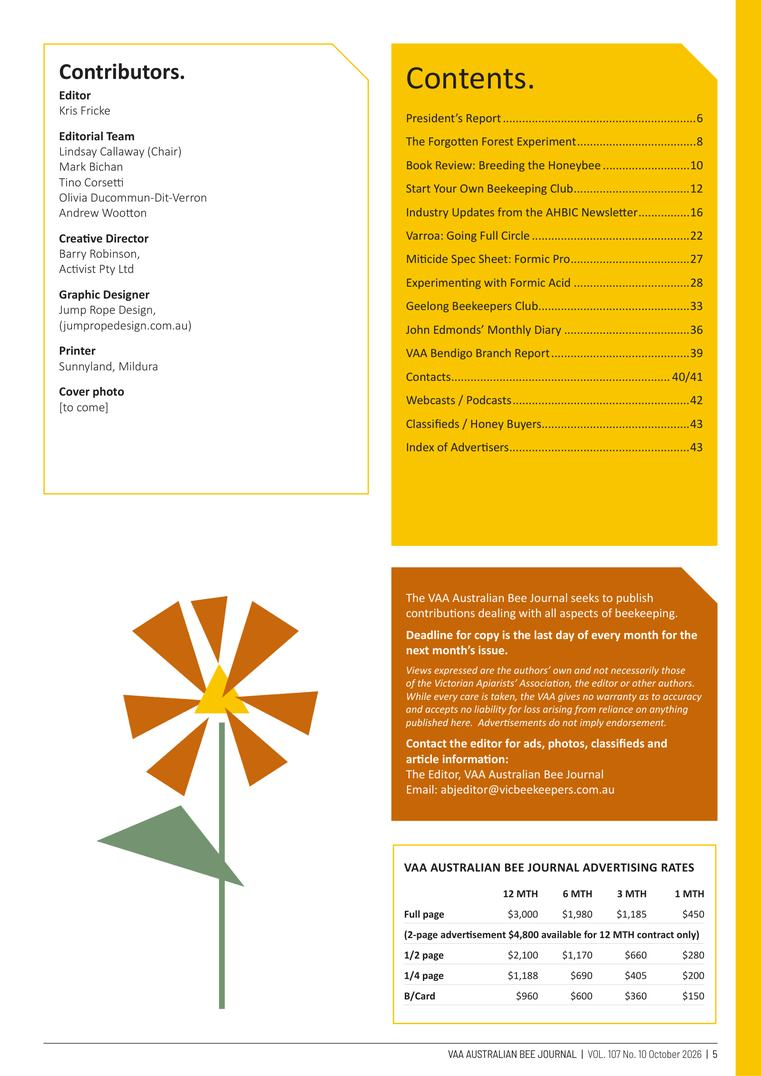
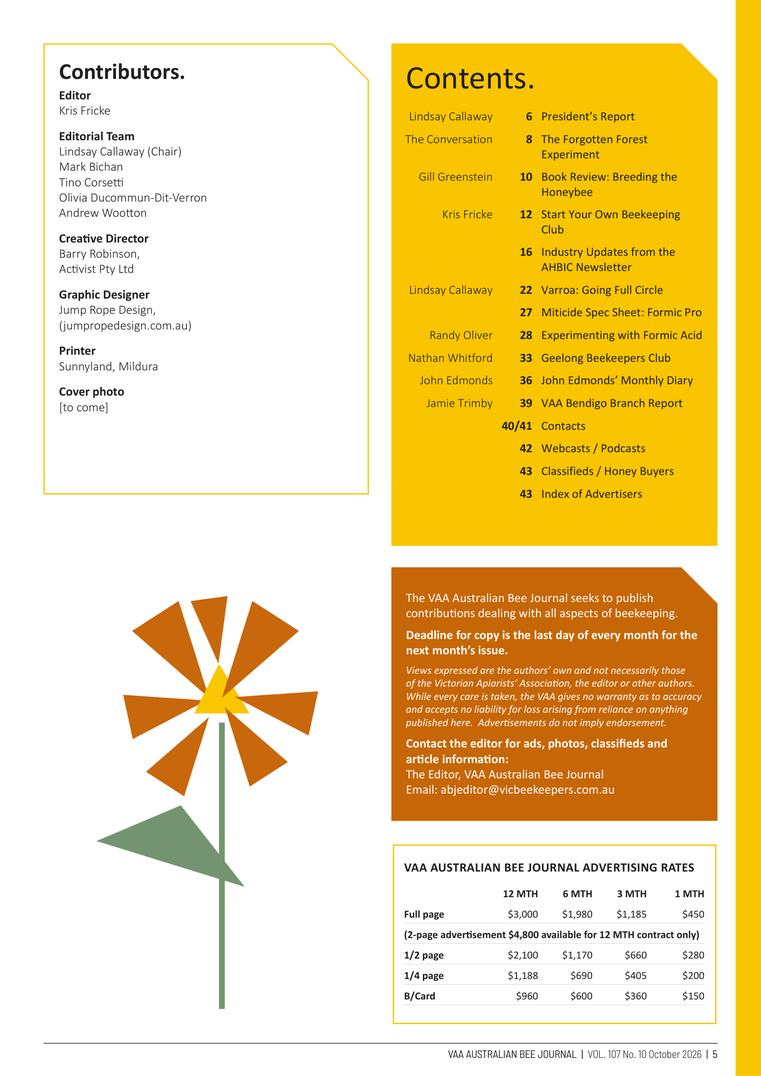
Index changes

Changed region(s): [[0.5138, 0.092, 0.9369, 0.4907]]

diff --git a/abk/html/v127n4/3.html b/abk/html/v127n4/3.html
@@ -70,36 +70,54 @@ a.hot:hover{background:rgba(255,212,0,.13);box-shadow:0 0 0 8px rgba(255,212,0,.
 <p class="gh" style="left:239.00px;top:4524.00px;font-size:89.60px" data-b="4600.65" data-w="596.50"><span class="w4">Honey and the</span></p>
 <p class="gh" style="left:238.95px;top:4658.40px;font-size:89.60px" data-b="4735.05" data-w="879.01"><span class="w4">Beekeepers' Interests</span></p>
 <p class="gh" style="left:238.91px;top:4792.80px;font-size:89.60px" data-b="4869.45" data-w="754.69"><span class="w4">for over 126 years</span></p>
-<p class="ss" style="left:1659.52px;top:1595.77px;font-size:70.40px" data-b="1656.00" data-w="37.17"><a class="ixlink" href="../../index.html#/page/v127n4/2" target="_top" title="Go to page 2"><span class="w7" style="color:#405a86">2</span></a></p>
-<p class="ss" style="left:1812.50px;top:1595.77px;font-size:70.40px;transform:scaleX(0.9984)" data-b="1656.00" data-w="351.57" data-g="0.9984"><a class="ixlink" href="../../index.html#/page/v127n4/2" target="_top" title="Go to page 2"><span class="w3">Editors Note</span></a></p>
-<p class="ss" style="left:1659.52px;top:1741.99px;font-size:70.40px" data-b="1802.22" data-w="37.17"><a class="ixlink" href="../../index.html#/page/v127n4/4" target="_top" title="Go to page 4"><span class="w7" style="color:#405a86">4</span></a></p>
-<p class="ss" style="left:1812.50px;top:1741.99px;font-size:70.40px" data-b="1802.22" data-w="1064.04"><a class="ixlink" href="../../index.html#/page/v127n4/4" target="_top" title="Go to page 4"><span class="w3">ABK News, Letters &amp; Industry Updates</span></a></p>
-<p class="ss" style="left:1659.52px;top:1888.21px;font-size:70.40px" data-b="1948.44" data-w="37.17"><a class="ixlink" href="../../index.html#/page/v127n4/8" target="_top" title="Go to page 8"><span class="w7" style="color:#405a86">8</span></a></p>
-<p class="ss" style="left:1812.50px;top:1888.21px;font-size:70.40px" data-b="1948.44" data-w="483.16"><a class="ixlink" href="../../index.html#/page/v127n4/8" target="_top" title="Go to page 8"><span class="w3">Seasonal Update</span></a></p>
-<p class="ss" style="left:1659.52px;top:2034.43px;font-size:70.40px" data-b="2094.66" data-w="74.34"><a class="ixlink" href="../../index.html#/page/v127n4/10" target="_top" title="Go to page 10"><span class="w7" style="color:#405a86">10</span></a></p>
-<p class="ss" style="left:1812.50px;top:2034.43px;font-size:70.40px" data-b="2094.66" data-w="1098.73"><a class="ixlink" href="../../index.html#/page/v127n4/10" target="_top" title="Go to page 10"><span class="w3">An In-Depth Look at Juvenile Hormone</span></a></p>
-<p class="ss" style="left:1659.52px;top:2180.66px;font-size:70.40px" data-b="2240.88" data-w="74.34"><a class="ixlink" href="../../index.html#/page/v127n4/13" target="_top" title="Go to page 13"><span class="w7" style="color:#405a86">13</span></a></p>
-<p class="ss" style="left:1812.50px;top:2180.66px;font-size:70.40px" data-b="2240.88" data-w="1773.37"><a class="ixlink" href="../../index.html#/page/v127n4/13" target="_top" title="Go to page 13"><span class="w3">Supers to the side! A new horizontal hive for hobby beekeepers</span></a></p>
-<p class="ss" style="left:1659.52px;top:2326.88px;font-size:70.40px" data-b="2387.10" data-w="74.34"><a class="ixlink" href="../../index.html#/page/v127n4/16" target="_top" title="Go to page 16"><span class="w7" style="color:#405a86">16</span></a></p>
-<p class="ss" style="left:1812.50px;top:2326.88px;font-size:70.40px" data-b="2387.10" data-w="1276.49"><a class="ixlink" href="../../index.html#/page/v127n4/16" target="_top" title="Go to page 16"><span class="w3">Selective Breeding for Mite Resistance - Part 1</span></a></p>
-<p class="ss" style="left:1659.52px;top:2473.10px;font-size:70.40px" data-b="2533.32" data-w="74.34"><a class="ixlink" href="../../index.html#/page/v127n4/21" target="_top" title="Go to page 21"><span class="w7" style="color:#405a86">21</span></a></p>
-<p class="ss" style="left:1812.50px;top:2473.10px;font-size:70.40px" data-b="2533.32" data-w="528.99"><a class="ixlink" href="../../index.html#/page/v127n4/21" target="_top" title="Go to page 21"><span class="w3">Swarming Impulse</span></a></p>
-<p class="ss" style="left:1659.52px;top:2619.32px;font-size:70.40px" data-b="2679.54" data-w="74.34"><a class="ixlink" href="../../index.html#/page/v127n4/24" target="_top" title="Go to page 24"><span class="w7" style="color:#405a86">24</span></a></p>
-<p class="ss" style="left:1812.50px;top:2619.32px;font-size:70.40px" data-b="2679.54" data-w="767.07"><a class="ixlink" href="../../index.html#/page/v127n4/24" target="_top" title="Go to page 24"><span class="w3">Formic Pro Versus Bayvarol</span></a></p>
-<p class="ss" style="left:1659.52px;top:2765.54px;font-size:70.40px" data-b="2825.77" data-w="74.34"><a class="ixlink" href="../../index.html#/page/v127n4/28" target="_top" title="Go to page 28"><span class="w7" style="color:#405a86">28</span></a></p>
-<p class="ss" style="left:1812.50px;top:2765.54px;font-size:70.40px" data-b="2825.77" data-w="515.61"><a class="ixlink" href="../../index.html#/page/v127n4/28" target="_top" title="Go to page 28"><span class="w3">Observation Hives</span></a></p>
-<p class="ss" style="left:1659.52px;top:2911.76px;font-size:70.40px" data-b="2971.99" data-w="74.34"><a class="ixlink" href="../../index.html#/page/v127n4/32" target="_top" title="Go to page 32"><span class="w7" style="color:#405a86">32</span></a></p>
-<p class="ss" style="left:1812.50px;top:2911.76px;font-size:70.40px" data-b="2971.99" data-w="1156.53"><a class="ixlink" href="../../index.html#/page/v127n4/32" target="_top" title="Go to page 32"><span class="w3">Drone Production with Varroa challenges</span></a></p>
-<p class="ss" style="left:1659.52px;top:3057.98px;font-size:70.40px" data-b="3118.21" data-w="74.34"><a class="ixlink" href="../../index.html#/page/v127n4/34" target="_top" title="Go to page 34"><span class="w7" style="color:#405a86">34</span></a></p>
-<p class="ss" style="left:1812.50px;top:3057.98px;font-size:70.40px" data-b="3118.21" data-w="1211.43"><a class="ixlink" href="../../index.html#/page/v127n4/34" target="_top" title="Go to page 34"><span class="w3">Small Hive Beetles, Arrivals and Departures</span></a></p>
-<p class="ss" style="left:1659.52px;top:3204.20px;font-size:70.40px" data-b="3264.43" data-w="74.34"><a class="ixlink" href="../../index.html#/page/v127n4/36" target="_top" title="Go to page 36"><span class="w7" style="color:#405a86">36</span></a></p>
-<p class="ss" style="left:1812.50px;top:3204.20px;font-size:70.40px" data-b="3264.43" data-w="1649.54"><a class="ixlink" href="../../index.html#/page/v127n4/36" target="_top" title="Go to page 36"><span class="w3">Running Your Bees at Full Throttle to Keep Ahead of Varroa</span></a></p>
-<p class="ss" style="left:1659.52px;top:3350.42px;font-size:70.40px" data-b="3410.65" data-w="74.34"><a class="ixlink" href="../../index.html#/page/v127n4/39" target="_top" title="Go to page 39"><span class="w7" style="color:#405a86">39</span></a></p>
-<p class="ss" style="left:1812.50px;top:3350.42px;font-size:70.40px" data-b="3410.65" data-w="572.56"><a class="ixlink" href="../../index.html#/page/v127n4/39" target="_top" title="Go to page 39"><span class="w3">Find The Queen Bee</span></a></p>
-<p class="ss" style="left:1659.52px;top:3496.64px;font-size:70.40px" data-b="3556.87" data-w="74.34"><a class="ixlink" href="../../index.html#/page/v127n4/40" target="_top" title="Go to page 40"><span class="w7" style="color:#405a86">40</span></a></p>
-<p class="ss" style="left:1812.50px;top:3496.64px;font-size:70.40px" data-b="3556.87" data-w="347.07"><a class="ixlink" href="../../index.html#/page/v127n4/40" target="_top" title="Go to page 40"><span class="w3">Marketplace</span></a></p>
-<p class="ss" style="left:1659.52px;top:3642.86px;font-size:70.40px" data-b="3703.09" data-w="74.34"><a class="ixlink" href="../../index.html#/page/v127n4/40" target="_top" title="Go to page 40"><span class="w7" style="color:#405a86">40</span></a></p>
-<p class="ss" style="left:1812.50px;top:3642.86px;font-size:70.40px" data-b="3703.09" data-w="1440.03"><a class="ixlink" href="../../index.html#/page/v127n4/40" target="_top" title="Go to page 40"><span class="w3">Find the Queen Bee Challenge - Last Issue’s Answer</span></a></p>
+<p class="ss" style="left:1999.36px;top:1603.83px;font-size:60.80px;transform:scaleX(0.9642)" data-b="1655.84" data-w="265.28" data-g="0.9642"><span class="w4" style="color:#626262">Kris Fricke</span></p>
+<p class="ss" style="left:2344.93px;top:1595.77px;font-size:70.40px" data-b="1656.00" data-w="37.17"><a class="ixlink" href="../../index.html#/page/v127n4/2" target="_top" title="Go to page 2"><span class="w7" style="color:#405a86">2</span></a></p>
+<p class="ss" style="left:2472.29px;top:1595.77px;font-size:70.40px;transform:scaleX(0.9984)" data-b="1656.00" data-w="351.57" data-g="0.9984"><a class="ixlink" href="../../index.html#/page/v127n4/2" target="_top" title="Go to page 2"><span class="w3">Editors Note</span></a></p>
+<p class="ss" style="left:2344.93px;top:1709.05px;font-size:70.40px" data-b="1769.27" data-w="37.17"><a class="ixlink" href="../../index.html#/page/v127n4/4" target="_top" title="Go to page 4"><span class="w7" style="color:#405a86">4</span></a></p>
+<p class="ss" style="left:2472.29px;top:1709.05px;font-size:70.40px" data-b="1769.27" data-w="1064.04"><a class="ixlink" href="../../index.html#/page/v127n4/4" target="_top" title="Go to page 4"><span class="w3">ABK News, Letters &amp; Industry Updates</span></a></p>
+<p class="ss" style="left:1874.42px;top:1830.39px;font-size:60.80px" data-b="1882.40" data-w="381.22"><span class="w4" style="color:#626262">John Edmonds</span></p>
+<p class="ss" style="left:2344.93px;top:1822.33px;font-size:70.40px" data-b="1882.56" data-w="37.17"><a class="ixlink" href="../../index.html#/page/v127n4/8" target="_top" title="Go to page 8"><span class="w7" style="color:#405a86">8</span></a></p>
+<p class="ss" style="left:2472.29px;top:1822.33px;font-size:70.40px" data-b="1882.56" data-w="483.16"><a class="ixlink" href="../../index.html#/page/v127n4/8" target="_top" title="Go to page 8"><span class="w3">Seasonal Update</span></a></p>
+<p class="ss" style="left:1763.58px;top:1943.67px;font-size:60.80px" data-b="1995.68" data-w="491.57"><span class="w4" style="color:#626262">Christine McDonald</span></p>
+<p class="ss" style="left:2326.35px;top:1935.61px;font-size:70.40px" data-b="1995.84" data-w="74.34"><a class="ixlink" href="../../index.html#/page/v127n4/10" target="_top" title="Go to page 10"><span class="w7" style="color:#405a86">10</span></a></p>
+<p class="ss" style="left:2472.29px;top:1935.61px;font-size:70.40px" data-b="1995.84" data-w="1098.74"><a class="ixlink" href="../../index.html#/page/v127n4/10" target="_top" title="Go to page 10"><span class="w3">An In-Depth Look at Juvenile Hormone</span></a></p>
+<p class="ss" style="left:1859.89px;top:2056.95px;font-size:60.80px" data-b="2108.96" data-w="395.26"><span class="w4" style="color:#626262">Lynne Swanson</span></p>
+<p class="ss" style="left:2326.35px;top:2048.89px;font-size:70.40px" data-b="2109.12" data-w="74.34"><a class="ixlink" href="../../index.html#/page/v127n4/13" target="_top" title="Go to page 13"><span class="w7" style="color:#405a86">13</span></a></p>
+<p class="ss" style="left:2472.29px;top:2048.89px;font-size:70.40px" data-b="2109.12" data-w="1012.14"><a class="ixlink" href="../../index.html#/page/v127n4/13" target="_top" title="Go to page 13"><span class="w3">Supers to the side! A new horizontal</span></a></p>
+<p class="ss" style="left:2472.29px;top:2134.64px;font-size:70.40px;transform:scaleX(0.9982)" data-b="2194.87" data-w="748.52" data-g="0.9982"><a class="ixlink" href="../../index.html#/page/v127n4/13" target="_top" title="Go to page 13"><span class="w3">hive for hobby beekeepers</span></a></p>
+<p class="ss" style="left:1935.04px;top:2255.99px;font-size:60.80px" data-b="2308.00" data-w="321.45"><span class="w4" style="color:#626262">Randy Oliver</span></p>
+<p class="ss" style="left:2326.35px;top:2247.93px;font-size:70.40px" data-b="2308.16" data-w="74.34"><a class="ixlink" href="../../index.html#/page/v127n4/16" target="_top" title="Go to page 16"><span class="w7" style="color:#405a86">16</span></a></p>
+<p class="ss" style="left:2472.29px;top:2247.93px;font-size:70.40px" data-b="2308.16" data-w="1065.78"><a class="ixlink" href="../../index.html#/page/v127n4/16" target="_top" title="Go to page 16"><span class="w3">Selective Breeding for Mite Resistance</span></a></p>
+<p class="ss" style="left:2472.29px;top:2333.68px;font-size:70.40px;transform:scaleX(0.9936)" data-b="2393.91" data-w="198.04" data-g="0.9936"><a class="ixlink" href="../../index.html#/page/v127n4/16" target="_top" title="Go to page 16"><span class="w3">- Part 1</span></a></p>
+<p class="ss" style="left:1965.44px;top:2455.03px;font-size:60.80px;transform:scaleX(0.9893)" data-b="2507.04" data-w="292.85" data-g="0.9893"><span class="w4" style="color:#626262">Bruce Ward</span></p>
+<p class="ss" style="left:2326.35px;top:2446.97px;font-size:70.40px" data-b="2507.20" data-w="74.34"><a class="ixlink" href="../../index.html#/page/v127n4/21" target="_top" title="Go to page 21"><span class="w7" style="color:#405a86">21</span></a></p>
+<p class="ss" style="left:2472.29px;top:2446.97px;font-size:70.40px" data-b="2507.20" data-w="528.99"><a class="ixlink" href="../../index.html#/page/v127n4/21" target="_top" title="Go to page 21"><span class="w3">Swarming Impulse</span></a></p>
+<p class="ss" style="left:1925.31px;top:2568.31px;font-size:60.80px" data-b="2620.32" data-w="329.84"><span class="w4" style="color:#626262">Madlen Kratz</span></p>
+<p class="ss" style="left:2326.35px;top:2560.25px;font-size:70.40px" data-b="2620.48" data-w="74.34"><a class="ixlink" href="../../index.html#/page/v127n4/24" target="_top" title="Go to page 24"><span class="w7" style="color:#405a86">24</span></a></p>
+<p class="ss" style="left:2472.29px;top:2560.25px;font-size:70.40px" data-b="2620.48" data-w="767.07"><a class="ixlink" href="../../index.html#/page/v127n4/24" target="_top" title="Go to page 24"><span class="w3">Formic Pro Versus Bayvarol</span></a></p>
+<p class="ss" style="left:1937.28px;top:2681.59px;font-size:60.80px" data-b="2733.60" data-w="317.86"><span class="w4" style="color:#626262">Frank Linton</span></p>
+<p class="ss" style="left:2326.35px;top:2673.53px;font-size:70.40px" data-b="2733.76" data-w="74.34"><a class="ixlink" href="../../index.html#/page/v127n4/28" target="_top" title="Go to page 28"><span class="w7" style="color:#405a86">28</span></a></p>
+<p class="ss" style="left:2472.29px;top:2673.53px;font-size:70.40px" data-b="2733.76" data-w="515.61"><a class="ixlink" href="../../index.html#/page/v127n4/28" target="_top" title="Go to page 28"><span class="w3">Observation Hives</span></a></p>
+<p class="ss" style="left:2046.00px;top:2794.87px;font-size:60.80px;transform:scaleX(0.9835)" data-b="2846.88" data-w="212.65" data-g="0.9835"><span class="w4" style="color:#626262">Liz Frost</span></p>
+<p class="ss" style="left:2326.35px;top:2786.81px;font-size:70.40px" data-b="2847.04" data-w="74.34"><a class="ixlink" href="../../index.html#/page/v127n4/32" target="_top" title="Go to page 32"><span class="w7" style="color:#405a86">32</span></a></p>
+<p class="ss" style="left:2472.29px;top:2786.81px;font-size:70.40px" data-b="2847.04" data-w="839.45"><a class="ixlink" href="../../index.html#/page/v127n4/32" target="_top" title="Go to page 32"><span class="w3">Drone Production with Varroa</span></a></p>
+<p class="ss" style="left:2472.29px;top:2872.56px;font-size:70.40px" data-b="2932.79" data-w="303.92"><a class="ixlink" href="../../index.html#/page/v127n4/32" target="_top" title="Go to page 32"><span class="w3">challenges</span></a></p>
+<p class="ss" style="left:2008.60px;top:2993.91px;font-size:60.80px" data-b="3045.92" data-w="247.03"><span class="w4" style="color:#626262">Jay Evans</span></p>
+<p class="ss" style="left:2326.35px;top:2985.85px;font-size:70.40px" data-b="3046.08" data-w="74.34"><a class="ixlink" href="../../index.html#/page/v127n4/34" target="_top" title="Go to page 34"><span class="w7" style="color:#405a86">34</span></a></p>
+<p class="ss" style="left:2472.29px;top:2985.85px;font-size:70.40px" data-b="3046.08" data-w="883.87"><a class="ixlink" href="../../index.html#/page/v127n4/34" target="_top" title="Go to page 34"><span class="w3">Small Hive Beetles, Arrivals and</span></a></p>
+<p class="ss" style="left:2472.29px;top:3071.60px;font-size:70.40px" data-b="3131.83" data-w="313.62"><a class="ixlink" href="../../index.html#/page/v127n4/34" target="_top" title="Go to page 34"><span class="w3">Departures</span></a></p>
+<p class="ss" style="left:1962.70px;top:3192.95px;font-size:60.80px;transform:scaleX(0.9900)" data-b="3244.96" data-w="295.40" data-g="0.9900"><span class="w4" style="color:#626262">Rod Bourke</span></p>
+<p class="ss" style="left:2326.35px;top:3184.89px;font-size:70.40px" data-b="3245.12" data-w="74.34"><a class="ixlink" href="../../index.html#/page/v127n4/36" target="_top" title="Go to page 36"><span class="w7" style="color:#405a86">36</span></a></p>
+<p class="ss" style="left:2472.29px;top:3184.89px;font-size:70.40px" data-b="3245.12" data-w="1029.39"><a class="ixlink" href="../../index.html#/page/v127n4/36" target="_top" title="Go to page 36"><span class="w3">Running Your Bees at Full Throttle to</span></a></p>
+<p class="ss" style="left:2472.29px;top:3270.64px;font-size:70.40px" data-b="3330.87" data-w="606.64"><a class="ixlink" href="../../index.html#/page/v127n4/36" target="_top" title="Go to page 36"><span class="w3">Keep Ahead of Varroa</span></a></p>
+<p class="ss" style="left:1787.17px;top:3391.99px;font-size:60.80px" data-b="3444.00" data-w="468.46"><span class="w4" style="color:#626262">Stephanie Parsons</span></p>
+<p class="ss" style="left:2326.35px;top:3383.93px;font-size:70.40px" data-b="3444.16" data-w="74.34"><a class="ixlink" href="../../index.html#/page/v127n4/39" target="_top" title="Go to page 39"><span class="w7" style="color:#405a86">39</span></a></p>
+<p class="ss" style="left:2472.29px;top:3383.93px;font-size:70.40px" data-b="3444.16" data-w="572.56"><a class="ixlink" href="../../index.html#/page/v127n4/39" target="_top" title="Go to page 39"><span class="w3">Find The Queen Bee</span></a></p>
+<p class="ss" style="left:2326.35px;top:3497.21px;font-size:70.40px" data-b="3557.43" data-w="74.34"><a class="ixlink" href="../../index.html#/page/v127n4/40" target="_top" title="Go to page 40"><span class="w7" style="color:#405a86">40</span></a></p>
+<p class="ss" style="left:2472.29px;top:3497.21px;font-size:70.40px" data-b="3557.43" data-w="347.07"><a class="ixlink" href="../../index.html#/page/v127n4/40" target="_top" title="Go to page 40"><span class="w3">Marketplace</span></a></p>
+<p class="ss" style="left:2326.35px;top:3610.48px;font-size:70.40px" data-b="3670.71" data-w="74.34"><a class="ixlink" href="../../index.html#/page/v127n4/40" target="_top" title="Go to page 40"><span class="w7" style="color:#405a86">40</span></a></p>
+<p class="ss" style="left:2472.29px;top:3610.48px;font-size:70.40px" data-b="3670.71" data-w="1020.51"><a class="ixlink" href="../../index.html#/page/v127n4/40" target="_top" title="Go to page 40"><span class="w3">Find the Queen Bee Challenge - Last</span></a></p>
+<p class="ss" style="left:2472.29px;top:3696.23px;font-size:70.40px" data-b="3756.45" data-w="405.58"><a class="ixlink" href="../../index.html#/page/v127n4/40" target="_top" title="Go to page 40"><span class="w3">Issue’s Answer</span></a></p>
 <a class="zoom" href="../../assets/v127n4/pics/contents-01.jpg" target="_blank" rel="noopener" data-src="assets/v127n4/pics/contents-01.jpg" data-alt="Hexagonal thumbnail of honey bees on capped brood comb." data-cap="" title="Click to enlarge" aria-label="Enlarge: Hexagonal thumbnail of honey bees on capped brood comb." style="left:1393.6px;top:824.0px;width:564.4px;height:643.8px"></a>
 <a class="zoom" href="../../assets/v127n4/pics/contents-02.jpg" target="_blank" rel="noopener" data-src="assets/v127n4/pics/contents-02.jpg" data-alt="Hexagonal thumbnail of a beekeeper in a white veil holding a frame covered with bees." data-cap="" title="Click to enlarge" aria-label="Enlarge: Hexagonal thumbnail of a beekeeper in a white veil holding a frame covered with bees." style="left:1962.7px;top:879.8px;width:488.3px;height:550.7px"></a>
 <a class="zoom" href="../../assets/v127n4/pics/contents-03.jpg" target="_blank" rel="noopener" data-src="assets/v127n4/pics/contents-03.jpg" data-alt="Hexagonal thumbnail of a honey bee carrying several reddish varroa mites." data-cap="" title="Click to enlarge" aria-label="Enlarge: Hexagonal thumbnail of a honey bee carrying several reddish varroa mites." style="left:2465.6px;top:800.5px;width:581.0px;height:661.8px"></a>

diff --git a/abk/html/abj107n10/5.html b/abk/html/abj107n10/5.html
@@ -55,21 +55,6 @@ a.hot:hover{background:rgba(255,212,0,.13);box-shadow:0 0 0 8px rgba(255,212,0,.
 <p class="gh" style="left:295.72px;top:1927.26px;font-size:64.00px" data-b="1982.01" data-w="326.30"><span class="w7">Cover photo</span></p>
 <p class="gh" style="left:295.72px;top:2004.06px;font-size:64.00px" data-b="2058.81" data-w="248.43"><span class="w3">[to come]</span></p>
 <p class="gh" style="left:2031.88px;top:299.93px;font-size:166.40px" data-b="442.28" data-w="647.73"><span class="w4">Contents.</span></p>
-<p class="gh" style="left:2031.88px;top:556.49px;font-size:64.00px" data-b="611.24" data-w="1487.63"><a class="ixlink" href="../../index.html#/page/abj107n10/6" target="_top" title="Go to page 6"><span class="w4">President’s Report.............................................................6</span></a></p>
-<p class="gh" style="left:2031.88px;top:674.25px;font-size:64.00px" data-b="729.00" data-w="1487.63"><a class="ixlink" href="../../index.html#/page/abj107n10/8" target="_top" title="Go to page 8"><span class="w4">The Forgotten Forest Experiment</span><span class="w4">.....................................8</span></a></p>
-<p class="gh" style="left:2031.88px;top:792.01px;font-size:64.00px" data-b="846.76" data-w="1487.64"><a class="ixlink" href="../../index.html#/page/abj107n10/10" target="_top" title="Go to page 10"><span class="w4">Book Review: Breeding the Honeybee............................10</span></a></p>
-<p class="gh" style="left:2031.88px;top:909.77px;font-size:64.00px" data-b="964.52" data-w="1487.64"><a class="ixlink" href="../../index.html#/page/abj107n10/12" target="_top" title="Go to page 12"><span class="w4">Start Your Own Beekeeping Club....................................12</span></a></p>
-<p class="gh" style="left:2031.88px;top:1027.53px;font-size:64.00px" data-b="1082.28" data-w="1487.64"><a class="ixlink" href="../../index.html#/page/abj107n10/16" target="_top" title="Go to page 16"><span class="w4">Industry Updates from the AHBIC Newsletter</span><span class="w4">................16</span></a></p>
-<p class="gh" style="left:2031.88px;top:1145.29px;font-size:64.00px" data-b="1200.04" data-w="1487.64"><a class="ixlink" href="../../index.html#/page/abj107n10/22" target="_top" title="Go to page 22"><span class="w4">Varroa: Going Full Circle</span><span class="w4">..................................................22</span></a></p>
-<p class="gh" style="left:2031.88px;top:1263.05px;font-size:64.00px" data-b="1317.80" data-w="1487.64"><a class="ixlink" href="../../index.html#/page/abj107n10/27" target="_top" title="Go to page 27"><span class="w4">Miticide Spec Sheet: Formic Pro</span><span class="w4">.....................................27</span></a></p>
-<p class="gh" style="left:2031.88px;top:1380.81px;font-size:64.00px" data-b="1435.56" data-w="1487.64"><a class="ixlink" href="../../index.html#/page/abj107n10/28" target="_top" title="Go to page 28"><span class="w4">Experimenting with Formic Acid</span><span class="w4">.....................................28</span></a></p>
-<p class="gh" style="left:2031.88px;top:1498.57px;font-size:64.00px" data-b="1553.32" data-w="1487.64"><a class="ixlink" href="../../index.html#/page/abj107n10/33" target="_top" title="Go to page 33"><span class="w4">Geelong Beekeepers Club...............................................33</span></a></p>
-<p class="gh" style="left:2031.88px;top:1616.33px;font-size:64.00px" data-b="1671.08" data-w="1487.64"><a class="ixlink" href="../../index.html#/page/abj107n10/36" target="_top" title="Go to page 36"><span class="w4">John Edmonds’ Monthly Diary........................................36</span></a></p>
-<p class="gh" style="left:2031.88px;top:1734.09px;font-size:64.00px" data-b="1788.84" data-w="1487.64"><a class="ixlink" href="../../index.html#/page/abj107n10/39" target="_top" title="Go to page 39"><span class="w4">VAA Bendigo Branch Report</span><span class="w4">............................................39</span></a></p>
-<p class="gh" style="left:2031.88px;top:1851.85px;font-size:64.00px" data-b="1906.60" data-w="1487.65"><a class="ixlink" href="../../index.html#/page/abj107n10/40" target="_top" title="Go to page 40"><span class="w4">Contacts</span><span class="w4">.................................................................... 40/41</span></a></p>
-<p class="gh" style="left:2031.88px;top:1969.61px;font-size:64.00px" data-b="2024.36" data-w="1487.64"><a class="ixlink" href="../../index.html#/page/abj107n10/42" target="_top" title="Go to page 42"><span class="w4">Webcasts / Podcasts</span><span class="w4">.......................................................42</span></a></p>
-<p class="gh" style="left:2031.88px;top:2087.37px;font-size:64.00px" data-b="2142.12" data-w="1487.64"><a class="ixlink" href="../../index.html#/page/abj107n10/43" target="_top" title="Go to page 43"><span class="w4">Classifieds / Honey Buyers</span><span class="w4">..............................................43</span></a></p>
-<p class="gh" style="left:2031.88px;top:2205.13px;font-size:64.00px" data-b="2259.88" data-w="1487.64"><a class="ixlink" href="../../index.html#/page/abj107n10/43" target="_top" title="Go to page 43"><span class="w4">Index of Advertisers</span><span class="w4">........................................................43</span></a></p>
 <p class="gh" style="left:2031.88px;top:2959.42px;font-size:64.00px" data-b="3014.17" data-w="1240.12"><span class="w4">The VAA Australian Bee Journal seeks to publish</span></p>
 <p class="gh" style="left:2031.88px;top:3036.22px;font-size:64.00px" data-b="3090.97" data-w="1362.84"><span class="w4">contributions dealing with all aspects of beekeeping.</span></p>
 <p class="gh" style="left:2031.88px;top:3145.02px;font-size:64.00px" data-b="3199.77" data-w="1460.45"><span class="w7">Deadline for copy is the last day of every month for the</span></p>
@@ -109,21 +94,40 @@ a.hot:hover{background:rgba(255,212,0,.13);box-shadow:0 0 0 8px rgba(255,212,0,.
 <p class="gh" style="left:2855.90px;top:4959.19px;font-size:54.40px" data-b="5005.73" data-w="110.32"><span class="w4">$600</span></p>
 <p class="gh" style="left:3128.00px;top:4959.19px;font-size:54.40px" data-b="5005.73" data-w="110.32"><span class="w4">$360</span></p>
 <p class="gh" style="left:3416.43px;top:4959.19px;font-size:54.40px" data-b="5005.73" data-w="110.32"><span class="w4">$150</span></p>
-<a class="ixlink hot" href="../../index.html#/page/abj107n10/6" target="_top" title="President’s Report (page 6)" aria-label="President’s Report, page 6" style="left:2012.7px;top:532.8px;width:1526.0px;height:111.2px"></a>
-<a class="ixlink hot" href="../../index.html#/page/abj107n10/8" target="_top" title="The Forgotten Forest Experiment (page 8)" aria-label="The Forgotten Forest Experiment, page 8" style="left:2012.7px;top:650.5px;width:1526.0px;height:111.2px"></a>
-<a class="ixlink hot" href="../../index.html#/page/abj107n10/10" target="_top" title="Book Review: Breeding the Honeybee (page 10)" aria-label="Book Review: Breeding the Honeybee, page 10" style="left:2012.7px;top:768.3px;width:1526.0px;height:111.2px"></a>
-<a class="ixlink hot" href="../../index.html#/page/abj107n10/12" target="_top" title="Start Your Own Beekeeping Club (page 12)" aria-label="Start Your Own Beekeeping Club, page 12" style="left:2012.7px;top:886.1px;width:1526.0px;height:111.2px"></a>
-<a class="ixlink hot" href="../../index.html#/page/abj107n10/16" target="_top" title="Industry Updates from the AHBIC Newsletter (page 16)" aria-label="Industry Updates from the AHBIC Newsletter, page 16" style="left:2012.7px;top:1003.8px;width:1526.0px;height:111.2px"></a>
-<a class="ixlink hot" href="../../index.html#/page/abj107n10/22" target="_top" title="Varroa: Going Full Circle (page 22)" aria-label="Varroa: Going Full Circle, page 22" style="left:2012.7px;top:1121.6px;width:1526.0px;height:111.2px"></a>
-<a class="ixlink hot" href="../../index.html#/page/abj107n10/27" target="_top" title="Miticide Spec Sheet: Formic Pro (page 27)" aria-label="Miticide Spec Sheet: Formic Pro, page 27" style="left:2012.7px;top:1239.3px;width:1526.0px;height:111.2px"></a>
-<a class="ixlink hot" href="../../index.html#/page/abj107n10/28" target="_top" title="Experimenting with Formic Acid (page 28)" aria-label="Experimenting with Formic Acid, page 28" style="left:2012.7px;top:1357.1px;width:1526.0px;height:111.2px"></a>
-<a class="ixlink hot" href="../../index.html#/page/abj107n10/33" target="_top" title="Geelong Beekeepers Club Inc.: Where Knowledge Gets Shared (page 33)" aria-label="Geelong Beekeepers Club Inc.: Where Knowledge Gets Shared, page 33" style="left:2012.7px;top:1474.9px;width:1526.0px;height:111.2px"></a>
-<a class="ixlink hot" href="../../index.html#/page/abj107n10/36" target="_top" title="John Edmonds’ Monthly Diary, September 2026 (page 36)" aria-label="John Edmonds’ Monthly Diary, September 2026, page 36" style="left:2012.7px;top:1592.6px;width:1526.0px;height:111.2px"></a>
-<a class="ixlink hot" href="../../index.html#/page/abj107n10/39" target="_top" title="VAA Bendigo Branch Report (page 39)" aria-label="VAA Bendigo Branch Report, page 39" style="left:2012.7px;top:1710.4px;width:1526.0px;height:111.2px"></a>
-<a class="ixlink hot" href="../../index.html#/page/abj107n10/40" target="_top" title="Contacts (page 40)" aria-label="Contacts, page 40" style="left:2012.7px;top:1828.1px;width:1526.0px;height:111.2px"></a>
-<a class="ixlink hot" href="../../index.html#/page/abj107n10/42" target="_top" title="Webcasts / Podcasts (page 42)" aria-label="Webcasts / Podcasts, page 42" style="left:2012.7px;top:1945.9px;width:1526.0px;height:111.2px"></a>
-<a class="ixlink hot" href="../../index.html#/page/abj107n10/43" target="_top" title="Classifieds / Honey Buyers (page 43)" aria-label="Classifieds / Honey Buyers, page 43" style="left:2012.7px;top:2063.7px;width:1526.0px;height:111.2px"></a>
-<a class="ixlink hot" href="../../index.html#/page/abj107n10/43" target="_top" title="Classifieds / Honey Buyers (page 43)" aria-label="Classifieds / Honey Buyers, page 43" style="left:2012.7px;top:2181.4px;width:1526.0px;height:111.2px"></a>
+<p class="gh" style="left:2047.17px;top:549.90px;font-size:62.40px" data-b="603.28" data-w="419.39"><a class="ixlink" href="../../index.html#/page/abj107n10/6" target="_top" title="Go to page 6"><span class="w4">Lindsay&#160;Callaway</span></a></p>
+<p class="gh" style="left:2633.71px;top:549.90px;font-size:62.40px" data-b="603.28" data-w="544.49"><a class="ixlink" href="../../index.html#/page/abj107n10/6" target="_top" title="Go to page 6"><span class="w7">6</span><span class="w4"> </span><span class="w4">President’s&#160;Report</span></a></p>
+<p class="gh" style="left:2028.80px;top:663.46px;font-size:62.40px" data-b="716.85" data-w="437.92"><a class="ixlink" href="../../index.html#/page/abj107n10/8" target="_top" title="Go to page 8"><span class="w4">The&#160;Conversation</span></a></p>
+<p class="gh" style="left:2633.71px;top:663.46px;font-size:62.40px" data-b="716.85" data-w="609.20"><a class="ixlink" href="../../index.html#/page/abj107n10/8" target="_top" title="Go to page 8"><span class="w7">8</span><span class="w4"> </span><span class="w4">The&#160;Forgotten&#160;Forest</span></a></p>
+<p class="gh" style="left:2710.13px;top:738.34px;font-size:62.40px" data-b="791.73" data-w="291.66"><a class="ixlink" href="../../index.html#/page/abj107n10/8" target="_top" title="Go to page 8"><span class="w4">Experiment</span></a></p>
+<p class="gh" style="left:2096.23px;top:851.91px;font-size:62.40px" data-b="905.30" data-w="370.53"><a class="ixlink" href="../../index.html#/page/abj107n10/10" target="_top" title="Go to page 10"><span class="w4">Gill&#160;Greenstein</span></a></p>
+<p class="gh" style="left:2602.08px;top:851.91px;font-size:62.40px" data-b="905.30" data-w="789.21"><a class="ixlink" href="../../index.html#/page/abj107n10/10" target="_top" title="Go to page 10"><span class="w7">10</span><span class="w4"> </span><span class="w4">Book&#160;Review:&#160;Breeding&#160;the</span></a></p>
+<p class="gh" style="left:2710.13px;top:926.79px;font-size:62.40px" data-b="980.18" data-w="258.52"><a class="ixlink" href="../../index.html#/page/abj107n10/10" target="_top" title="Go to page 10"><span class="w4">Honeybee</span></a></p>
+<p class="gh" style="left:2213.35px;top:1040.36px;font-size:62.40px" data-b="1093.74" data-w="253.47"><a class="ixlink" href="../../index.html#/page/abj107n10/12" target="_top" title="Go to page 12"><span class="w4">Kris&#160;Fricke</span></a></p>
+<p class="gh" style="left:2602.08px;top:1040.36px;font-size:62.40px" data-b="1093.74" data-w="804.06"><a class="ixlink" href="../../index.html#/page/abj107n10/12" target="_top" title="Go to page 12"><span class="w7">12</span><span class="w4"> </span><span class="w4">Start&#160;Your&#160;Own&#160;Beekeeping</span></a></p>
+<p class="gh" style="left:2710.13px;top:1115.24px;font-size:62.40px" data-b="1168.62" data-w="113.07"><a class="ixlink" href="../../index.html#/page/abj107n10/12" target="_top" title="Go to page 12"><span class="w4">Club</span></a></p>
+<p class="gh" style="left:2602.08px;top:1228.81px;font-size:62.40px" data-b="1282.19" data-w="779.17"><a class="ixlink" href="../../index.html#/page/abj107n10/16" target="_top" title="Go to page 16"><span class="w7">16</span><span class="w4"> </span><span class="w4">Industry&#160;Updates&#160;from&#160;the</span></a></p>
+<p class="gh" style="left:2710.13px;top:1303.69px;font-size:62.40px" data-b="1357.07" data-w="451.78"><a class="ixlink" href="../../index.html#/page/abj107n10/16" target="_top" title="Go to page 16"><span class="w4">AHBIC&#160;Newsletter</span></a></p>
+<p class="gh" style="left:2047.17px;top:1417.26px;font-size:62.40px" data-b="1470.64" data-w="419.39"><a class="ixlink" href="../../index.html#/page/abj107n10/22" target="_top" title="Go to page 22"><span class="w4">Lindsay&#160;Callaway</span></a></p>
+<p class="gh" style="left:2602.08px;top:1417.26px;font-size:62.40px" data-b="1470.64" data-w="717.95"><a class="ixlink" href="../../index.html#/page/abj107n10/22" target="_top" title="Go to page 22"><span class="w7">22</span><span class="w4"> </span><span class="w4">Varroa:&#160;Going&#160;Full&#160;Circle</span></a></p>
+<p class="gh" style="left:2602.08px;top:1530.82px;font-size:62.40px" data-b="1584.21" data-w="911.70"><a class="ixlink" href="../../index.html#/page/abj107n10/27" target="_top" title="Go to page 27"><span class="w7">27</span><span class="w4"> </span><span class="w4">Miticide&#160;Spec&#160;Sheet:&#160;Formic&#160;Pro</span></a></p>
+<p class="gh" style="left:2150.00px;top:1644.39px;font-size:62.40px" data-b="1697.78" data-w="316.80"><a class="ixlink" href="../../index.html#/page/abj107n10/28" target="_top" title="Go to page 28"><span class="w4">Randy&#160;Oliver</span></a></p>
+<p class="gh" style="left:2602.08px;top:1644.39px;font-size:62.40px" data-b="1697.78" data-w="913.95"><a class="ixlink" href="../../index.html#/page/abj107n10/28" target="_top" title="Go to page 28"><span class="w7">28</span><span class="w4"> </span><span class="w4">Experimenting&#160;with&#160;Formic&#160;Acid</span></a></p>
+<p class="gh" style="left:2042.42px;top:1757.96px;font-size:62.40px" data-b="1811.34" data-w="424.26"><a class="ixlink" href="../../index.html#/page/abj107n10/33" target="_top" title="Go to page 33"><span class="w4">Nathan&#160;Whitford</span></a></p>
+<p class="gh" style="left:2602.08px;top:1757.96px;font-size:62.40px" data-b="1811.34" data-w="756.08"><a class="ixlink" href="../../index.html#/page/abj107n10/33" target="_top" title="Go to page 33"><span class="w7">33</span><span class="w4"> </span><span class="w4">Geelong&#160;Beekeepers&#160;Club</span></a></p>
+<p class="gh" style="left:2102.44px;top:1871.53px;font-size:62.40px" data-b="1924.91" data-w="364.42"><a class="ixlink" href="../../index.html#/page/abj107n10/36" target="_top" title="Go to page 36"><span class="w4">John&#160;Edmonds</span></a></p>
+<p class="gh" style="left:2602.08px;top:1871.53px;font-size:62.40px" data-b="1924.91" data-w="867.46"><a class="ixlink" href="../../index.html#/page/abj107n10/36" target="_top" title="Go to page 36"><span class="w7">36</span><span class="w4"> </span><span class="w4">John&#160;Edmonds’&#160;Monthly&#160;Diary</span></a></p>
+<p class="gh" style="left:2135.53px;top:1985.10px;font-size:62.40px" data-b="2038.48" data-w="331.34"><a class="ixlink" href="../../index.html#/page/abj107n10/39" target="_top" title="Go to page 39"><span class="w4">Jamie&#160;Trimby</span></a></p>
+<p class="gh" style="left:2602.08px;top:1985.10px;font-size:62.40px" data-b="2038.48" data-w="815.17"><a class="ixlink" href="../../index.html#/page/abj107n10/39" target="_top" title="Go to page 39"><span class="w7">39</span><span class="w4"> </span><span class="w4">VAA&#160;Bendigo&#160;Branch&#160;Report</span></a></p>
+<p class="gh" style="left:2512.01px;top:2098.66px;font-size:62.40px" data-b="2152.05" data-w="419.33"><a class="ixlink" href="../../index.html#/page/abj107n10/40" target="_top" title="Go to page 40"><span class="w7">40/41</span><span class="w4"> </span><span class="w4">Contacts</span></a></p>
+<p class="gh" style="left:2602.08px;top:2212.23px;font-size:62.40px" data-b="2265.62" data-w="629.16"><a class="ixlink" href="../../index.html#/page/abj107n10/42" target="_top" title="Go to page 42"><span class="w7">42</span><span class="w4"> </span><span class="w4">Webcasts&#160;/&#160;Podcasts</span></a></p>
+<p class="gh" style="left:2602.08px;top:2325.80px;font-size:62.40px" data-b="2379.18" data-w="772.18"><a class="ixlink" href="../../index.html#/page/abj107n10/43" target="_top" title="Go to page 43"><span class="w7">43</span><span class="w4"> </span><span class="w4">Classifieds&#160;/&#160;Honey&#160;Buyers</span></a></p>
+<p class="gh" style="left:2602.08px;top:2439.37px;font-size:62.40px" data-b="2492.75" data-w="613.74"><a class="ixlink" href="../../index.html#/page/abj107n10/43" target="_top" title="Go to page 43"><span class="w7">43</span><span class="w4"> </span><span class="w4">Index&#160;of&#160;Advertisers</span></a></p>
+<a class="ixlink hot" href="../../index.html#/page/abj107n10/8" target="_top" title="Go to page 8" aria-label="Go to page 8" style="left:2028.8px;top:657.6px;width:1491.2px;height:152.9px"></a>
+<a class="ixlink hot" href="../../index.html#/page/abj107n10/12" target="_top" title="Go to page 12" aria-label="Go to page 12" style="left:2028.8px;top:1034.5px;width:1491.2px;height:152.9px"></a>
+<a class="ixlink hot" href="../../index.html#/page/abj107n10/16" target="_top" title="Go to page 16" aria-label="Go to page 16" style="left:2028.8px;top:1222.9px;width:1491.2px;height:152.9px"></a>
+<a class="ixlink hot" href="../../index.html#/page/abj107n10/40" target="_top" title="Go to page 40" aria-label="Go to page 40" style="left:2028.8px;top:2092.8px;width:1491.2px;height:78.0px"></a>
+<a class="ixlink hot" href="../../index.html#/page/abj107n10/42" target="_top" title="Go to page 42" aria-label="Go to page 42" style="left:2028.8px;top:2206.3px;width:1491.2px;height:78.0px"></a>
+<a class="ixlink hot" href="../../index.html#/page/abj107n10/43" target="_top" title="Go to page 43" aria-label="Go to page 43" style="left:2028.8px;top:2433.5px;width:1491.2px;height:78.0px"></a>
 </div></div></div>
 <script>
 /* Lay each line where the print has it. The baseline is measured in the browser (a line box puts
